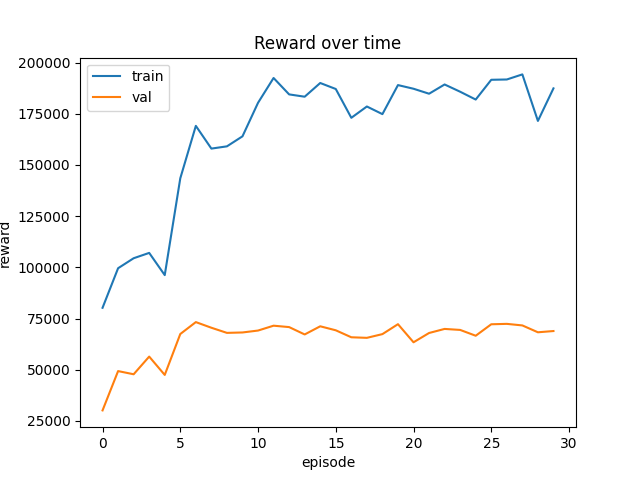
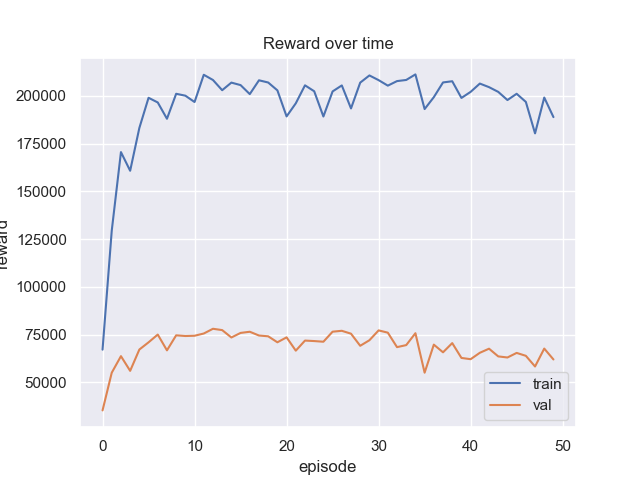
final push

diff --git a/src/agent/dqn.py b/src/agent/dqn.py
@@ -2,6 +2,7 @@ import copy
 import random
 from collections import deque
 from pathlib import Path
+import seaborn as sns
 
 import matplotlib.patches as mpatches
 import numpy as np
@@ -201,7 +202,7 @@ class DDQNAgent:
             plt.plot(epsilons)
             plt.show()
 
-        # self.visualize_features()
+        self.visualize_features()
         print(f"Best agent at iteration {self.best_agent} out of {self.n_episodes}")
 
     def play_action(self, state: np.ndarray):
@@ -323,7 +324,7 @@ class DDQNAgent:
         # price x mean price
         self.plot_3d(1, 5, "price", "mean price")
         # price x reservoir volume
-        self.plot_3d(1, 0, "price", "reservoir volume")
+        self.plot_3d(0, 1, "reservoir volume", "price")
         # price x std price
         self.plot_3d(1, 6, "price", "std price")
         # price x LSTM prediction
@@ -424,6 +425,7 @@ class DDQNAgent:
 
 
 def plot_rewards(train_rewards, val_rewards):
+    sns.set()
     plt.plot(train_rewards, label="train")
     plt.plot(val_rewards, label="val")
     plt.legend()

diff --git a/main.py b/main.py
@@ -46,7 +46,7 @@ epsilon_end = 0.05
 epsilon_decay = True
 lr = 5e-4
 # number is how many times you run throuh the whole dataset
-n_episodes = int(20 * len(env_wrapped))
+n_episodes = int(50 * len(env_wrapped))
 buffer_size = len(env_wrapped)
 device = torch.device("cuda" if torch.cuda.is_available() else "cpu")
 seed_value = 7
